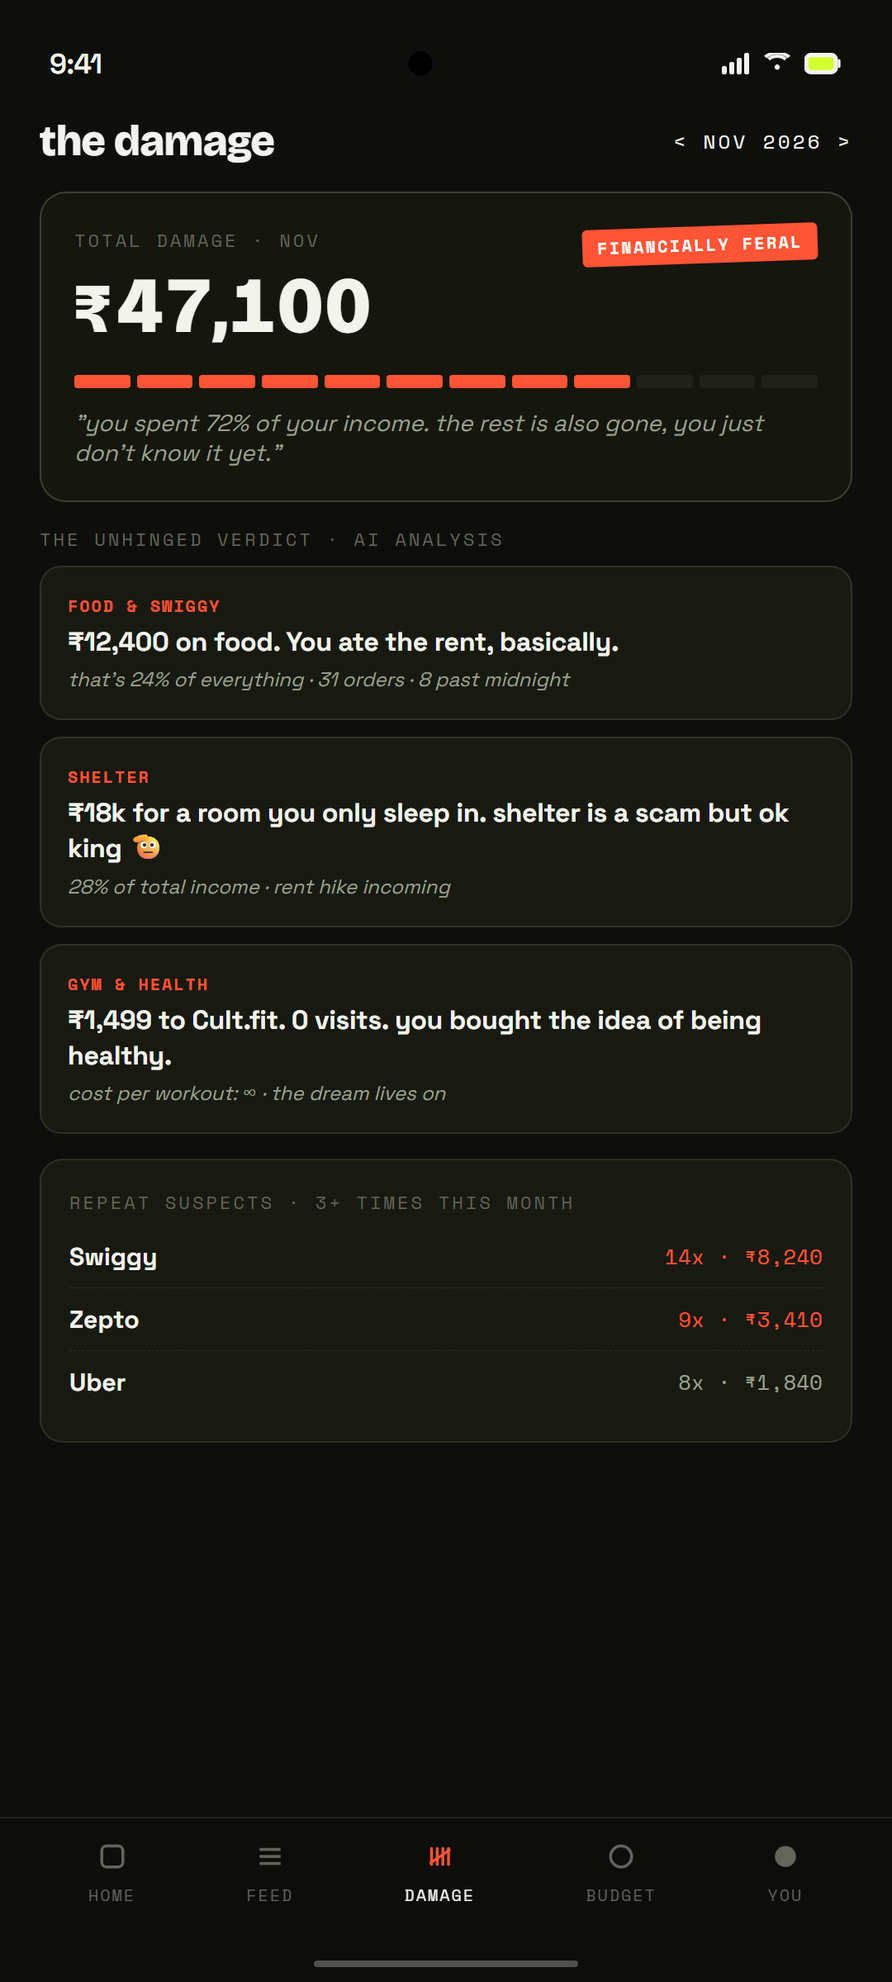
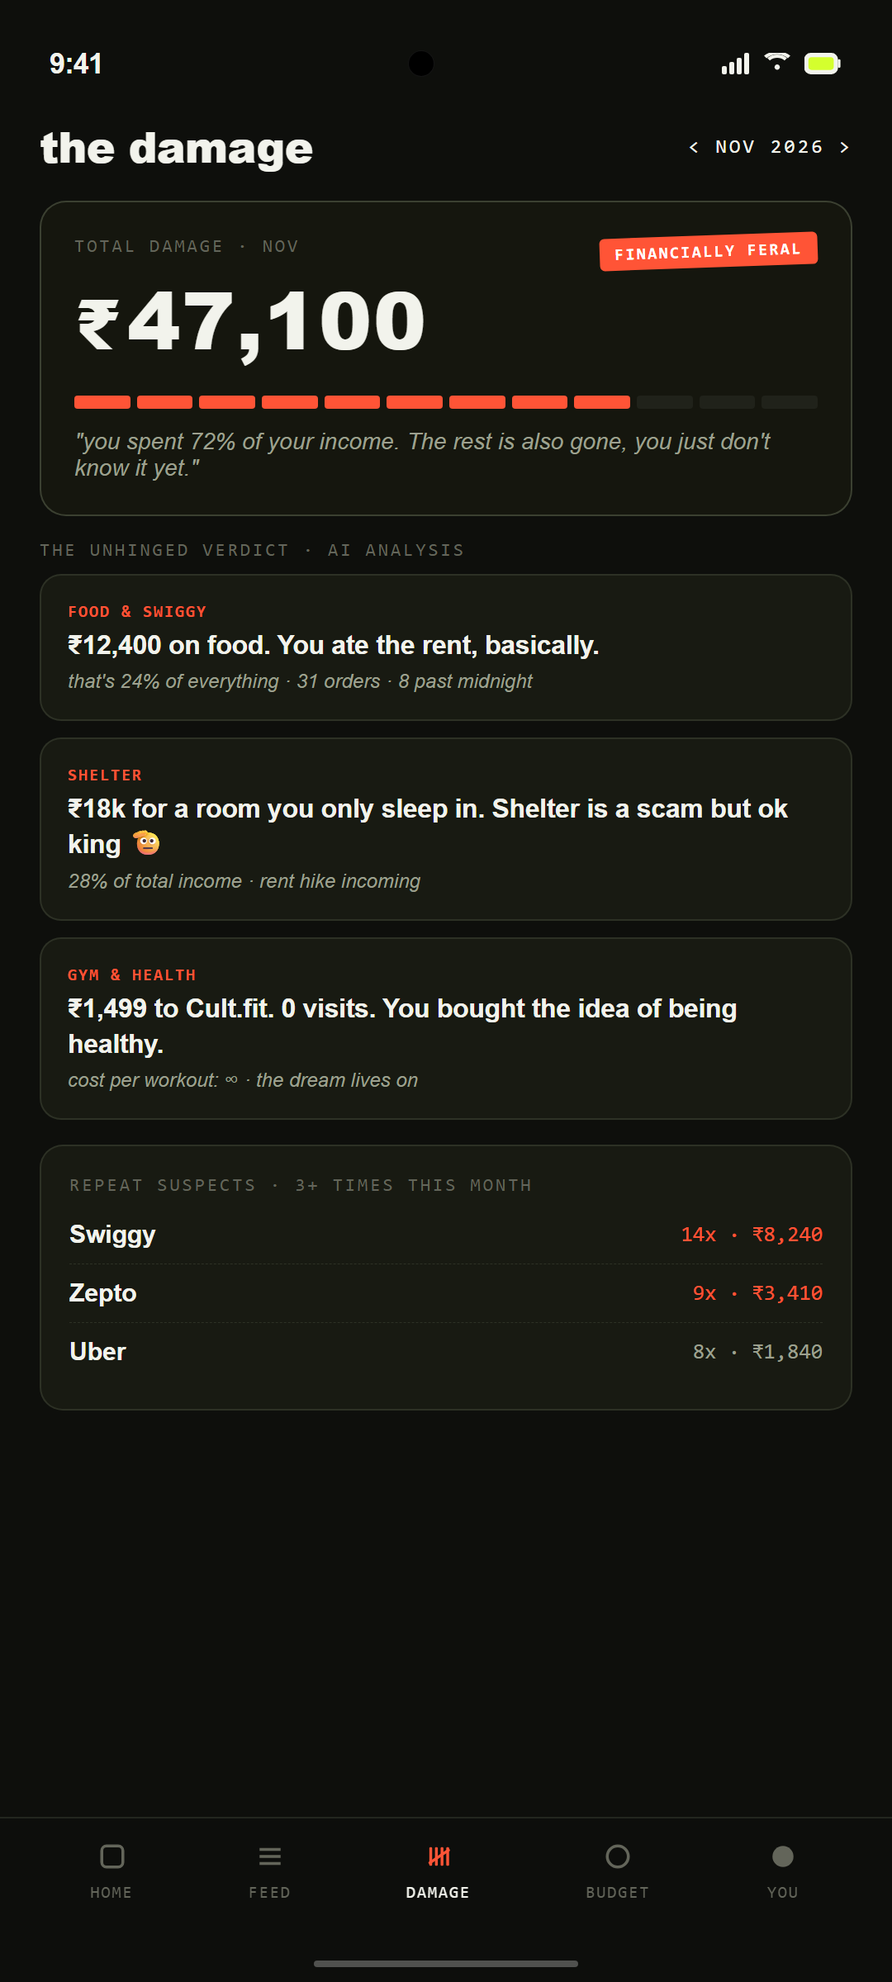
style: capitalise every word after a full stop across app, marketing, and screenshots

diff --git a/src/tally/data.js b/src/tally/data.js
@@ -38,16 +38,16 @@ export const SEED_TXS = [
   { id: 't2',  merchant: 'BookMyShow',       amount: 920,  type: 'debit',  category: 'entertainment', when: "y'day",  note: 'F1 tickets, solo', sms: true },
   { id: 't3',  merchant: 'Zepto',            amount: 312,  type: 'debit',  category: 'food',          when: "y'day",  note: '1 maggi, 1 redbull', sms: true },
   { id: 't4',  merchant: 'Myntra',           amount: 2750, type: 'debit',  category: 'shopping',      when: '2 days', note: 'the cart finally won', sms: true },
-  { id: 't5',  merchant: 'Uber',             amount: 218,  type: 'debit',  category: 'transport',     when: '3 days', note: '1.2km. it was raining', sms: true },
+  { id: 't5',  merchant: 'Uber',             amount: 218,  type: 'debit',  category: 'transport',     when: '3 days', note: '1.2km. It was raining', sms: true },
   { id: 't6',  merchant: 'Cult.fit',         amount: 1499, type: 'debit',  category: 'health',        when: '5 days', note: '0 visits so far', sms: true },
   { id: 't7',  merchant: 'Starbucks',        amount: 465,  type: 'debit',  category: 'food',          when: '5 days', note: 'for the wifi', sms: true },
   { id: 't8',  merchant: 'Steam',            amount: 1099, type: 'debit',  category: 'entertainment', when: '1 wk',   note: "won't play it", sms: true },
   { id: 't9',  merchant: 'Zomato',           amount: 642,  type: 'debit',  category: 'food',          when: '1 wk',   note: '2am biryani', sms: true },
-  { id: 't10', merchant: 'Amazon',           amount: 2199, type: 'debit',  category: 'shopping',      when: '1 wk',   note: 'need? no. want? yes', sms: true },
+  { id: 't10', merchant: 'Amazon',           amount: 2199, type: 'debit',  category: 'shopping',      when: '1 wk',   note: 'need? No. Want? Yes', sms: true },
   { id: 't11', merchant: 'Blinkit',          amount: 540,  type: 'debit',  category: 'food',          when: '1 wk',   note: '₹540 of snacks', sms: true },
   { id: 't12', merchant: 'Netflix',          amount: 649,  type: 'debit',  category: 'utilities',     when: '1 wk',   note: "haven't opened it", sms: true },
   { id: 't13', merchant: 'Nykaa',            amount: 1860, type: 'debit',  category: 'shopping',      when: '2 wks',  note: 'self care, allegedly', sms: true },
-  { id: 't14', merchant: 'MakeMyTrip',       amount: 3200, type: 'debit',  category: 'entertainment', when: '2 wks',  note: 'goa. for the plot', sms: true },
+  { id: 't14', merchant: 'MakeMyTrip',       amount: 3200, type: 'debit',  category: 'entertainment', when: '2 wks',  note: 'goa. For the plot', sms: true },
   { id: 't15', merchant: 'Apple Store',      amount: 4999, type: 'debit',  category: 'shopping',      when: '2 wks',  note: 'the airpods broke', sms: true },
   { id: 't16', merchant: 'Landlord',         amount: 18000,type: 'debit',  category: 'rent',          when: 'Jun 1',  note: 'the monthly heist', sms: true },
   { id: 't17', merchant: 'iCloud',           amount: 75,   type: 'debit',  category: 'utilities',     when: 'Jun 1',  note: '50GB of screenshots', sms: true },
@@ -78,10 +78,10 @@ export const VOICE = {
     { big: 'SUBS',  line: '₹2,540 on subscriptions you forgot you had.', sub: '4 of 6 unused' },
   ],
   unhinged: [
-    { big: 'FOOD', line: "₹4,200 on Swiggy alone. you don't have a kitchen, you have a charging dock.", sub: 'cook once. as a treat.' },
-    { big: 'RENT', line: '₹18k for a room you only sleep in. shelter is a scam but ok king 🫡', sub: '28% of income, gone' },
-    { big: 'DOOM', line: "you spent 80% of your income. the other 20% is also gone, you just don't know it yet.", sub: '₹1,130 to payday' },
-    { big: 'GYM',  line: '₹1,499 to Cult.fit. 0 visits. you bought the *idea* of being healthy.', sub: 'the dream lives' },
+    { big: 'FOOD', line: "₹4,200 on Swiggy alone. You don't have a kitchen, you have a charging dock.", sub: 'cook once. As a treat.' },
+    { big: 'RENT', line: '₹18k for a room you only sleep in. Shelter is a scam but ok king 🫡', sub: '28% of income, gone' },
+    { big: 'DOOM', line: "you spent 80% of your income. The other 20% is also gone, you just don't know it yet.", sub: '₹1,130 to payday' },
+    { big: 'GYM',  line: '₹1,499 to Cult.fit. 0 visits. You bought the *idea* of being healthy.', sub: 'the dream lives' },
   ],
 };
 export function verdictsFor(tone, nihil) {
@@ -90,7 +90,7 @@ export function verdictsFor(tone, nihil) {
 
 const COPE_ZONES = [
   { max: 0.45, label: 'locked in',         note: 'genuinely who is this' },
-  { max: 0.65, label: 'coping',            note: 'holding it together. barely.' },
+  { max: 0.65, label: 'coping',            note: 'holding it together. Barely.' },
   { max: 0.85, label: 'spiraling',         note: 'the vibes are recession-core' },
   { max: 2.0,  label: 'financially feral', note: 'respectfully, what are you doing' },
 ];
@@ -98,8 +98,8 @@ export function copeZone(ratio) {
   return COPE_ZONES.find((z) => ratio <= z.max) || COPE_ZONES[COPE_ZONES.length - 1];
 }
 export function damageVerdict(nihil) {
-  if (nihil <= 1) return 'could be worse. could be better. mostly worse.';
-  if (nihil === 2) return "it's giving 'declined'. respectfully.";
+  if (nihil <= 1) return 'could be worse. Could be better. Mostly worse.';
+  if (nihil === 2) return "it's giving 'declined'. Respectfully.";
   return "you're not broke, you're pre-rich. (you're broke.)";
 }
 

diff --git a/src/services/aiAdvice.js b/src/services/aiAdvice.js
@@ -36,8 +36,8 @@ Examples for dry tone:
 
 Examples for unhinged tone:
 [
-  {"tag":"FOOD","line":"₹8,400 on swiggy alone. you don't have a kitchen, you have a wifi password for a restaurant.","sub":"cook once. as a treat 🫡"},
-  {"tag":"DOOM","line":"you spent 78% of your income and it's the 15th. the rest of the month is a vibe.","sub":"₹2k left to pretend"},
+  {"tag":"FOOD","line":"₹8,400 on swiggy alone. You don't have a kitchen, you have a wifi password for a restaurant.","sub":"cook once. As a treat 🫡"},
+  {"tag":"DOOM","line":"you spent 78% of your income and it's the 15th. The rest of the month is a vibe.","sub":"₹2k left to pretend"},
   {"tag":"SHOP","line":"₹5,200 on things that seemed necessary at 2am.","sub":"they were not necessary"}
 ]
 
@@ -54,7 +54,7 @@ export async function askAI({ question, cats, total, income }) {
   try {
     return await callAnthropic(system, content);
   } catch {
-    return "couldn't reach tally AI right now. try again in a moment.";
+    return "couldn't reach tally AI right now. Try again in a moment.";
   }
 }
 
@@ -116,7 +116,7 @@ function buildFallbackVerdict(cats, total, income, tone) {
     const c = cats[0];
     const pct = Math.round(c.amount / total * 100);
     results.push(unhinged
-      ? { tag: c.tag, line: `₹${fmt(c.amount)} on ${c.label.toLowerCase()}. you live here now.`, sub: `${pct}% of everything gone` }
+      ? { tag: c.tag, line: `₹${fmt(c.amount)} on ${c.label.toLowerCase()}. You live here now.`, sub: `${pct}% of everything gone` }
       : { tag: c.tag, line: `₹${fmt(c.amount)} on ${c.label.toLowerCase()}. Leads the damage report.`, sub: `${pct}% of total spend` }
     );
   }
@@ -125,7 +125,7 @@ function buildFallbackVerdict(cats, total, income, tone) {
   if (pctIncome !== null) {
     const left = Math.max(0, income - total);
     results.push(unhinged
-      ? { tag: 'DOOM', line: `${pctIncome}% of your income is already gone. the rest is vibes and anxiety.`, sub: `₹${fmt(left)} remains` }
+      ? { tag: 'DOOM', line: `${pctIncome}% of your income is already gone. The rest is vibes and anxiety.`, sub: `₹${fmt(left)} remains` }
       : { tag: 'RATIO', line: `${pctIncome}% of income spent. Month isn't over.`, sub: `₹${fmt(left)} remaining` }
     );
   }
@@ -133,13 +133,13 @@ function buildFallbackVerdict(cats, total, income, tone) {
   if (cats[1]) {
     const c = cats[1];
     results.push(unhinged
-      ? { tag: c.tag, line: `₹${fmt(c.amount)} on ${c.label.toLowerCase()} too. two-front war on your wallet.`, sub: 'the second biggest hole' }
+      ? { tag: c.tag, line: `₹${fmt(c.amount)} on ${c.label.toLowerCase()} too. Two-front war on your wallet.`, sub: 'the second biggest hole' }
       : { tag: c.tag, line: `${c.label} at ₹${fmt(c.amount)} · runner-up damage.`, sub: 'second largest category' }
     );
   }
 
   while (results.length < 3) {
-    results.push({ tag: 'MISC', line: 'spending logged. consequences pending.', sub: 'tally is watching' });
+    results.push({ tag: 'MISC', line: 'spending logged. Consequences pending.', sub: 'tally is watching' });
   }
 
   return results.slice(0, 3);

diff --git a/landing/index.html b/landing/index.html
@@ -5,7 +5,7 @@
 <meta name="viewport" content="width=device-width, initial-scale=1.0" />
 <title>tally · track the damage</title>
 <meta name="description" content="A snarky AI money manager that reads your bank SMS, logs every spend, and tells you how badly you blew it. Coming soon." />
-<meta property="og:title" content="tally · track the damage. financially feral." />
+<meta property="og:title" content="tally · track the damage. Financially feral." />
 <meta property="og:description" content="The money app for people who already know it's bad and want to watch anyway." />
 <link rel="preconnect" href="https://fonts.googleapis.com" />
 <link rel="preconnect" href="https://fonts.gstatic.com" crossorigin />
@@ -94,14 +94,14 @@
   </header>
 
   <section class="hero">
-    <h1>track the damage.<br><span class="red">financially feral.</span></h1>
+    <h1>track the damage.<br><span class="red">Financially feral.</span></h1>
     <p>A snarky AI money manager that reads your bank SMS, logs every spend, and is deeply unbothered about your feelings.</p>
 
     <form id="waitlist">
       <input id="email" type="email" placeholder="your@email.com" required autocomplete="email" />
       <button id="submit" type="submit">join the waitlist</button>
     </form>
-    <div class="note">no spam. just the occasional roast.</div>
+    <div class="note">no spam. Just the occasional roast.</div>
     <div class="msg" id="msg"></div>
   </section>
 
@@ -135,7 +135,7 @@
       <rect x="14" y="22" width="11" height="72" rx="4"/><rect x="36" y="22" width="11" height="72" rx="4"/>
       <rect x="58" y="22" width="11" height="72" rx="4"/><rect x="80" y="22" width="11" height="72" rx="4"/>
       <rect x="47" y="9" width="11" height="98" rx="4" transform="rotate(56 52.5 58)"/></g></svg>
-    <div class="mono">we never store your texts. we just judge them.</div>
+    <div class="mono">we never store your texts. We just judge them.</div>
     <div class="foot-links">
       <a href="#">instagram</a><a href="#">x / twitter</a><a href="./privacy.html">privacy</a>
     </div>
@@ -173,17 +173,17 @@
       });
       if (res.ok) {
         form.style.display = 'none';
-        msg.textContent = "you're on the list. brace yourself.";
+        msg.textContent = "you're on the list. Brace yourself.";
         msg.className = 'msg ok';
       } else if (res.status === 409) {
-        msg.textContent = "already on the list. eager.";
+        msg.textContent = "already on the list. Eager.";
         msg.className = 'msg ok';
         form.style.display = 'none';
       } else {
         throw new Error('http ' + res.status);
       }
     } catch (err) {
-      msg.textContent = 'something broke. try again.';
+      msg.textContent = 'something broke. Try again.';
       msg.className = 'msg err';
       btn.disabled = false; btn.textContent = 'join the waitlist';
     }

diff --git a/src/tally/screens/HomeScreen.js b/src/tally/screens/HomeScreen.js
@@ -11,9 +11,9 @@ import { totalSpent, groupByCat, copeZone, monthlyTotals } from '../data';
 import { writeWidgetCache } from '../../services/widgetSync';
 
 function buildRead(top, total) {
-  if (!top || total <= 0) return "no damage logged yet. suspicious, honestly.";
+  if (!top || total <= 0) return "no damage logged yet. Suspicious, honestly.";
   const pct = Math.round((top.amount / total) * 100);
-  return `${fmtINR(top.amount)} on ${top.label.toLowerCase()}, ${pct}% of everything. bold strategy.`;
+  return `${fmtINR(top.amount)} on ${top.label.toLowerCase()}, ${pct}% of everything. Bold strategy.`;
 }
 
 // Local calendar-day key (not toISOString, which is UTC and rolls back to the
@@ -331,7 +331,7 @@ export default function HomeScreen({ navigation }) {
             no damage yet.
           </Text>
           <Text style={{ fontFamily: FONTS.sans, fontSize: 14, lineHeight: 21, color: T.dim, textAlign: 'center' }}>
-            tally reads your bank SMS to auto-log spends. or add one manually to get started.
+            tally reads your bank SMS to auto-log spends. Or add one manually to get started.
           </Text>
           <Pressable onPress={openAdd}
             style={{ backgroundColor: accent, borderRadius: 10, paddingHorizontal: 24, paddingVertical: 12, marginTop: 4 }}>
@@ -459,7 +459,7 @@ export default function HomeScreen({ navigation }) {
         <Rule T={T} />
         {recent.length === 0 && (
           <MonoLabel T={T} color={T.faint} size={11} style={{ paddingVertical: 16 }}>
-            nothing logged this month. either budgeting or lying.
+            nothing logged this month. Either budgeting or lying.
           </MonoLabel>
         )}
         {recent.map((tx) => (

diff --git a/src/tally/screens/OnboardingScreen.js b/src/tally/screens/OnboardingScreen.js
@@ -11,7 +11,7 @@ import { FONTS } from '../theme';
 import { MonoLabel, Btn, Brand } from '../ui';
 
 const FEATURES = [
-  ['AUTO', 'reads your bank SMS, logs every spend. no typing, no lying to yourself.'],
+  ['AUTO', 'reads your bank SMS, logs every spend. No typing, no lying to yourself.'],
   ['VERDICT', "an AI that's deeply unbothered about your feelings."],
   ['RECEIPT', 'a shareable receipt of the monthly carnage.'],
 ];
@@ -153,7 +153,7 @@ export default function OnboardingScreen({ onDone }) {
             )}
             <Btn T={T} accent={accent} accentInk={accentInk} variant="ghost" onPress={finish}>i'll log it manually</Btn>
             <MonoLabel T={T} color={T.faint} size={9.5} style={{ textAlign: 'center', marginTop: 8 }}>
-              we never store your texts. we just judge them.
+              we never store your texts. We just judge them.
             </MonoLabel>
           </>
         )}

diff --git a/src/tally/screens/BudgetScreen.js b/src/tally/screens/BudgetScreen.js
@@ -98,7 +98,7 @@ export default function BudgetScreen() {
         <View style={{ marginTop: 24, backgroundColor: T.card, borderWidth: 1, borderColor: T.line, borderRadius: 16, padding: 20 }}>
           <MonoLabel T={T} color={T.dim} size={10.5}>no delusions set yet.</MonoLabel>
           <Text style={{ fontFamily: FONTS.sans, fontSize: 14, lineHeight: 20, color: T.dim, marginTop: 8 }}>
-            set a monthly limit for any category below. we'll tell you when you're about to blow it, and when you already have.
+            set a monthly limit for any category below. We'll tell you when you're about to blow it, and when you already have.
           </Text>
         </View>
       )}

diff --git a/src/tally/screens/FeedScreen.js b/src/tally/screens/FeedScreen.js
@@ -161,7 +161,7 @@ export default function FeedScreen({ navigation }) {
         <View style={{ alignItems: 'center', paddingVertical: 60 }}>
           <Text style={{ fontFamily: FONTS.display, fontSize: 28, color: T.faint }}>₹0</Text>
           <MonoLabel T={T} color={T.faint} size={11} style={{ marginTop: 10, textAlign: 'center' }}>
-            {query ? 'no matches.' : filter === 'in' ? 'no money in. shocking.' : 'no spends here. quiet month? doubt it.'}
+            {query ? 'no matches.' : filter === 'in' ? 'no money in. Shocking.' : 'no spends here. Quiet month? Doubt it.'}
           </MonoLabel>
         </View>
       )}

diff --git a/src/components/ErrorBoundary.js b/src/components/ErrorBoundary.js
@@ -44,7 +44,7 @@ export class ErrorBoundary extends React.Component {
           something broke.
         </Text>
         <Text style={{ color: DIM, fontSize: 14, textAlign: 'center', marginTop: 10, lineHeight: 20 }}>
-          your data's safe. this was just a display crash. tap below to try again.
+          your data's safe. This was just a display crash. Tap below to try again.
         </Text>
         <Pressable onPress={this.handleReload}
           style={{ marginTop: 24, backgroundColor: ACCENT, borderRadius: 12, paddingVertical: 13, paddingHorizontal: 28 }}>

diff --git a/src/tally/screens/Paywall.js b/src/tally/screens/Paywall.js
@@ -92,7 +92,7 @@ export default function Paywall({ visible, onClose }) {
               see the whole carnage.
             </Text>
             <Text style={{ fontFamily: FONTS.sans, fontSize: 14.5, lineHeight: 22, color: T.dim, marginTop: 12 }}>
-              free shows you the last 30 days. the damage goes back further. you know it does.
+              free shows you the last 30 days. The damage goes back further. You know it does.
             </Text>
 
             <View style={{ marginTop: 22, gap: 14 }}>

diff --git a/src/tally/screens/AuthScreen.js b/src/tally/screens/AuthScreen.js
@@ -57,7 +57,7 @@ export default function AuthScreen() {
             </Text>
           </View>
           <MonoLabel T={T} color={T.dim} size={13} style={{ marginTop: 16, marginBottom: 44 }}>
-            track the damage. financially feral.
+            track the damage. Financially feral.
           </MonoLabel>
 
           <View style={{ gap: 12 }}>

diff --git a/scripts/generate_screenshots.py b/scripts/generate_screenshots.py
@@ -415,7 +415,7 @@ def build_screen_dashboard():
       </div>
       <div class="hero-amount"><span class="curr">₹</span>47,100</div>
       <div class="ai-read">
-        "₹18,400 on food & swiggy, 39% of everything. bold strategy."
+        "₹18,400 on food & swiggy, 39% of everything. Bold strategy."
       </div>
 
       <span class="mono-label" style="font-size:20px;">last 7 days</span>
@@ -820,7 +820,7 @@ def build_screen_insights():
       </div>
 
       <div style="font-family:var(--sans); font-size:28px; color:var(--dim); font-style:italic;">
-        "you spent 72% of your income. the rest is also gone, you just don't know it yet."
+        "you spent 72% of your income. The rest is also gone, you just don't know it yet."
       </div>
     </div>
 
@@ -835,13 +835,13 @@ def build_screen_insights():
 
     <div class="roast-card">
       <div class="roast-tag">SHELTER</div>
-      <div class="roast-line">₹18k for a room you only sleep in. shelter is a scam but ok king 🫡</div>
+      <div class="roast-line">₹18k for a room you only sleep in. Shelter is a scam but ok king 🫡</div>
       <div class="roast-sub">28% of total income · rent hike incoming</div>
     </div>
 
     <div class="roast-card">
       <div class="roast-tag">GYM &amp; HEALTH</div>
-      <div class="roast-line">₹1,499 to Cult.fit. 0 visits. you bought the idea of being healthy.</div>
+      <div class="roast-line">₹1,499 to Cult.fit. 0 visits. You bought the idea of being healthy.</div>
       <div class="roast-sub">cost per workout: ∞ · the dream lives on</div>
     </div>
 
@@ -1109,13 +1109,13 @@ def build_screen_pro():
       <span class="pill" style="font-size:22px;">PRO</span>
     </div>
     <div style="font-family:var(--display); font-weight:800; font-size:68px; letter-spacing:-0.01em;">tally pro.</div>
-    <div style="font-size:30px; color:var(--dim); margin-bottom:28px;">you know it's bad. make it official.</div>
+    <div style="font-size:30px; color:var(--dim); margin-bottom:28px;">you know it's bad. Make it official.</div>
 
     <!-- Perks -->
     <div style="margin-bottom:30px;">
       <div class="perk-row">
         <span class="perk-tag">FULL HISTORY</span>
-        <span class="perk-desc">every transaction forever, not just 30 days. remember every mistake.</span>
+        <span class="perk-desc">every transaction forever, not just 30 days. Remember every mistake.</span>
       </div>
       <div class="perk-row">
         <span class="perk-tag">AI++ ROASTS</span>
@@ -1127,7 +1127,7 @@ def build_screen_pro():
       </div>
       <div class="perk-row">
         <span class="perk-tag">AUTO-CAPTURE</span>
-        <span class="perk-desc">reads bank &amp; UPI notifications in background. zero manual logging.</span>
+        <span class="perk-desc">reads bank &amp; UPI notifications in background. Zero manual logging.</span>
       </div>
     </div>
 
@@ -1533,7 +1533,7 @@ body {{
       <span class="brand-name">tally</span>
       <span class="kicker">coming soon</span>
     </div>
-    <div class="tagline">track the damage.<br><span>financially feral.</span></div>
+    <div class="tagline">track the damage.<br><span>Financially feral.</span></div>
     <div class="desc">A snarky AI money manager that reads your bank SMS, logs every spend, and is deeply unbothered about your feelings.</div>
   </div>
 
@@ -1542,7 +1542,7 @@ body {{
     <div class="floating-card card-1">
       <div style="font-family:'Space Mono'; font-size:11px; color:#63655A; text-transform:uppercase; letter-spacing:0.1em;">the damage so far</div>
       <div style="font-family:'Bricolage Grotesque'; font-size:44px; font-weight:800; letter-spacing:0.02em; font-variant-numeric:tabular-nums; margin:4px 0 8px;"><span style="font-size:0.88em; margin-right:4px;">₹</span>47,100</div>
-      <div style="font-size:13px; color:#9DA08F; font-style:italic;">"₹18,400 on food. you ate the rent, basically."</div>
+      <div style="font-size:13px; color:#9DA08F; font-style:italic;">"₹18,400 on food. You ate the rent, basically."</div>
     </div>
 
     <!-- Floating Card 2 -->

diff --git a/docs/STORE_LISTING.md b/docs/STORE_LISTING.md
@@ -14,15 +14,15 @@ specifically, since notification-listener is the safer primary path (see
 Tally · track the damage
 
 ## Short description (80 char max)
-auto-logs every spend, roasts you for it. zero manual entry.
+auto-logs every spend, roasts you for it. Zero manual entry.
 
 ## Full description (4000 char max)
 
-you know it's bad. tally just makes it official.
+you know it's bad. Tally just makes it official.
 
 tally watches your bank and UPI apps and logs every transaction the second
 it happens: no typing, no receipts, no "I'll add it later" that never
-happens. debit, credit, doesn't matter. if money moved, tally saw it.
+happens. Debit, credit, doesn't matter. If money moved, tally saw it.
 
 **what it does**
 - auto-logs transactions in real time, straight from your bank/UPI apps
@@ -43,11 +43,11 @@ happens. debit, credit, doesn't matter. if money moved, tally saw it.
 
 **your data, straight**
 tally never reads or stores your messages: only the transaction details
-(amount, merchant, date) get pulled out and saved. nothing else. we don't
-sell your data, ever. full breakdown in the privacy policy, linked below.
+(amount, merchant, date) get pulled out and saved. Nothing else. We don't
+sell your data, ever. Full breakdown in the privacy policy, linked below.
 
-built by one person who also hates checking their bank balance. track the
-damage. financially feral.
+built by one person who also hates checking their bank balance. Track the
+damage. Financially feral.
 
 ## Data safety form (reference answers)
 
